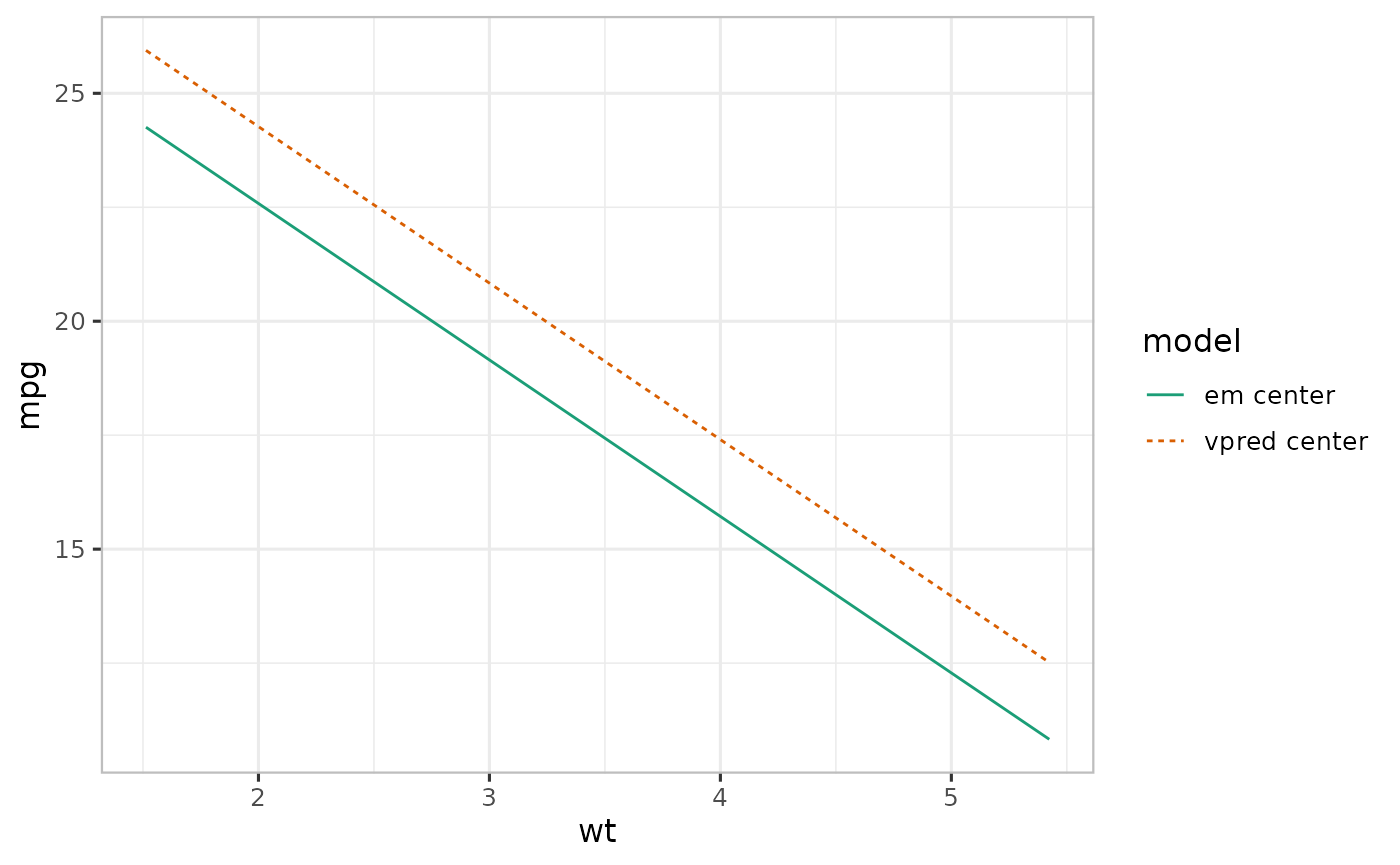
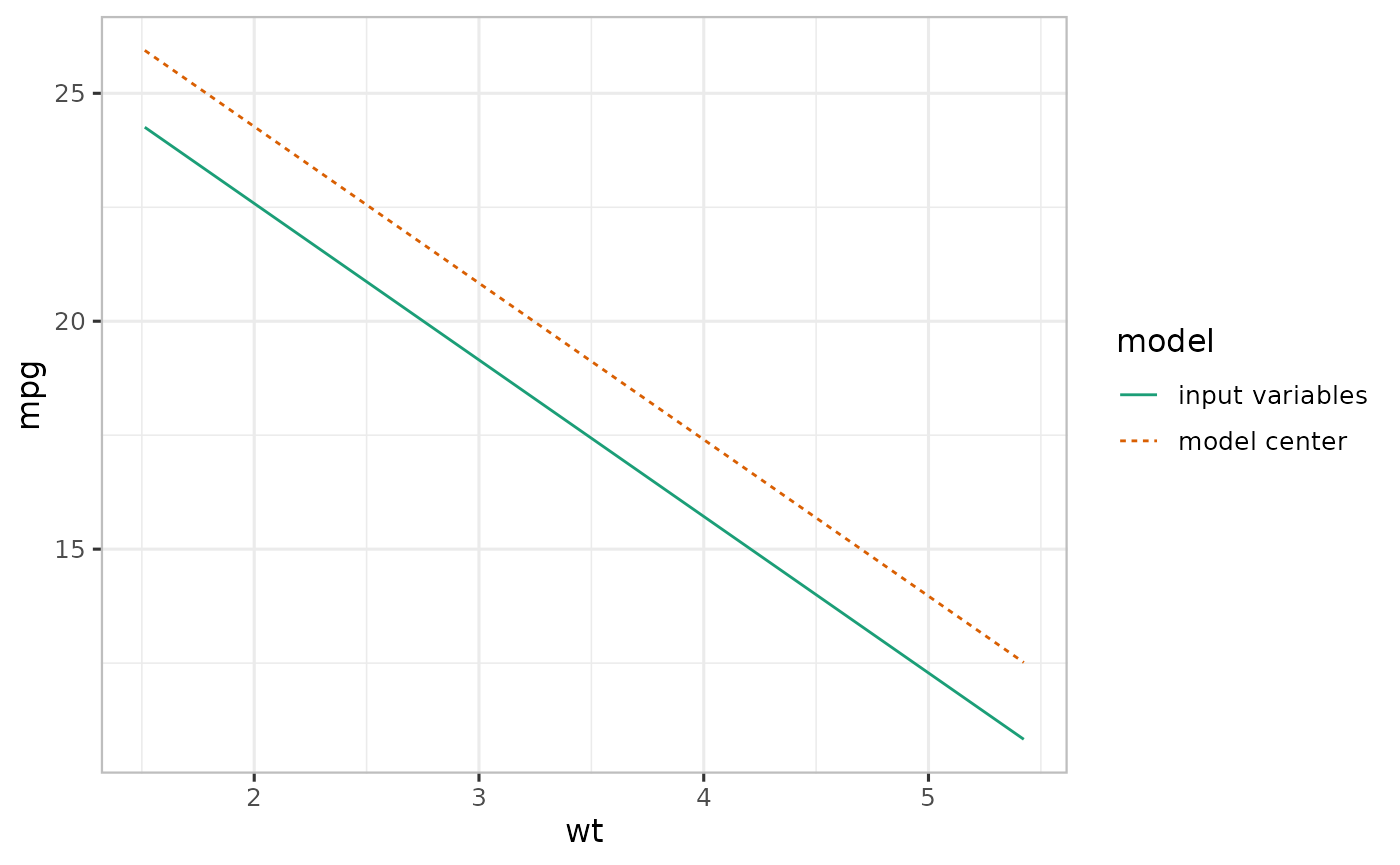
Updating pages

diff --git a/docs/articles/varpred_intro.html b/docs/articles/varpred_intro.html
@@ -229,20 +229,20 @@
 <p><img src="varpred_intro_files/figure-html/simple-mean-based-combine-1.png" width="700"></p>
 <p>In the absence of interaction (left Figure), the three packages produce identical estimates and their respective averages closely match the data mean. However, in the presence of interactions, the estimates from <code>emmeans</code> and <code>effects</code> are identical but differ from <code>varpred</code>’s, which is very close to the data mean.</p>
 <p>The packages <code>emmeans</code> and <code>effects</code> use the average of the input variables (mean of <code>disp</code> and <code>hp</code>) as the reference point as opposed to model-center approach <code>varpred</code> (average of the linear predictor variables). In the simple model (left Figure above) input variables are the same as the linear predictor variables, so all the three methods produce identical results. In the interaction model (right Figure above), there is an additional linear predictor variable (<code>disp*hp</code>). <code>emmeans</code> and <code>effects</code> first average the input variables to compute <span class="math inline">\(\mathrm{\bar{disp}}\star\mathrm{\bar{hp}}\)</span> while <code>varpred</code> first calculates the corresponding vector of linear predictor values and then averages.</p>
-<p><strong>emmeans-based averaging with varpred (Experimental!)</strong></p>
-<p>We can also average input variables in <code>varpred</code> similar to <code>emmeans</code> and <code>effects</code>. Consider <code>mod2</code> in the previous example, by setting <code>emmeans_centered=TRUE</code>, we can generate predictions similar to the ones in <code>em2</code>.</p>
+<p><strong>Input variable (emmeans-based) averaging with varpred (Experimental!)</strong></p>
+<p>We can also average input variables in <code>varpred</code> similar to <code>emmeans</code> and <code>effects</code> (input variable). Consider <code>mod2</code> in the previous example, by setting <code>input_vars=TRUE</code>, we can generate predictions similar to the ones in <code>em2</code>.</p>
 <div class="sourceCode" id="cb6"><pre class="downlit sourceCode r">
 <code class="sourceCode R"><span class="co">## default varpred centering</span>
 <span class="va">vcenter</span> <span class="op">&lt;-</span> <span class="fu"><a href="../reference/varpred.html">varpred</a></span><span class="op">(</span><span class="va">mod2</span>
     , <span class="st">"wt"</span>
-    , modelname<span class="op">=</span><span class="st">"vpred center"</span>
+    , modelname<span class="op">=</span><span class="st">"model center"</span>
 <span class="op">)</span>
 
 <span class="co">## varpred emmeans centering</span>
 <span class="va">emcenter</span> <span class="op">&lt;-</span> <span class="fu"><a href="../reference/varpred.html">varpred</a></span><span class="op">(</span><span class="va">mod2</span>
     , <span class="st">"wt"</span>
-    , emmeans_centered<span class="op">=</span><span class="cn">TRUE</span>
-    , modelname<span class="op">=</span><span class="st">"em center"</span>
+    , input_vars<span class="op">=</span><span class="cn">TRUE</span>
+    , modelname<span class="op">=</span><span class="st">"input variables"</span>
 <span class="op">)</span>
 
 <span class="va">all_preds_plots</span> <span class="op">&lt;-</span> <span class="fu"><a href="../reference/combinevarpred.html">combinevarpred</a></span><span class="op">(</span><span class="fu"><a href="https://rdrr.io/r/base/list.html" class="external-link">list</a></span><span class="op">(</span><span class="va">vcenter</span>, <span class="va">emcenter</span><span class="op">)</span>

diff --git a/docs/reference/varpred.html b/docs/reference/varpred.html
@@ -65,7 +65,7 @@
   true.beta <span class="op">=</span> <span class="cn">NULL</span>,
   vcov. <span class="op">=</span> <span class="cn">NULL</span>,
   internal <span class="op">=</span> <span class="cn">FALSE</span>,
-  emmeans_centered <span class="op">=</span> <span class="cn">FALSE</span>,
+  input_vars <span class="op">=</span> <span class="cn">FALSE</span>,
   avefun <span class="op">=</span> <span class="va">mean</span>,
   offset <span class="op">=</span> <span class="cn">NULL</span>,
   bias.adjust <span class="op">=</span> <span class="fu"><a href="https://rdrr.io/r/base/c.html" class="external-link">c</a></span><span class="op">(</span><span class="st">"none"</span>, <span class="st">"taylor"</span>, <span class="st">"observed"</span><span class="op">)</span>,
@@ -130,8 +130,8 @@
 <dd><p>logical. If <code>TRUE</code>, the entries of the non-focal predictor (see x.var) in the variance-covariance matrix are internally zeroed-out using <code><a href="zero_vcov.html">zero_vcov</a></code>. Default is <code>FALSE</code>.</p></dd>
 
 
-<dt>emmeans_centered</dt>
-<dd><p>logical. If <code>TRUE</code>, package <code>emmeans</code> based input variable centering is applied. See examples in vignette.</p></dd>
+<dt>input_vars</dt>
+<dd><p>logical. If <code>TRUE</code>, package input variables are averaged otherwise linear predictor variables. See examples in vignette.</p></dd>
 
 
 <dt>avefun</dt>

diff --git a/docs/authors.html b/docs/authors.html
@@ -68,14 +68,14 @@
       <h2 id="citation">Citation</h2>
       <p></p>
 
-      <p>Cygu B, Bolker B, Dushoff J (2022).
+      <p>Cygu B, Bolker B, Dushoff J (2023).
 <em>varpred: Outcome Plots</em>.
 R package version 1.0.1. 
 </p>
       <pre>@Manual{,
   title = {varpred: Outcome Plots},
   author = {Bicko Cygu and Ben Bolker and Jonathan Dushoff},
-  year = {2022},
+  year = {2023},
   note = {R package version 1.0.1},
 }</pre>
     </div>
